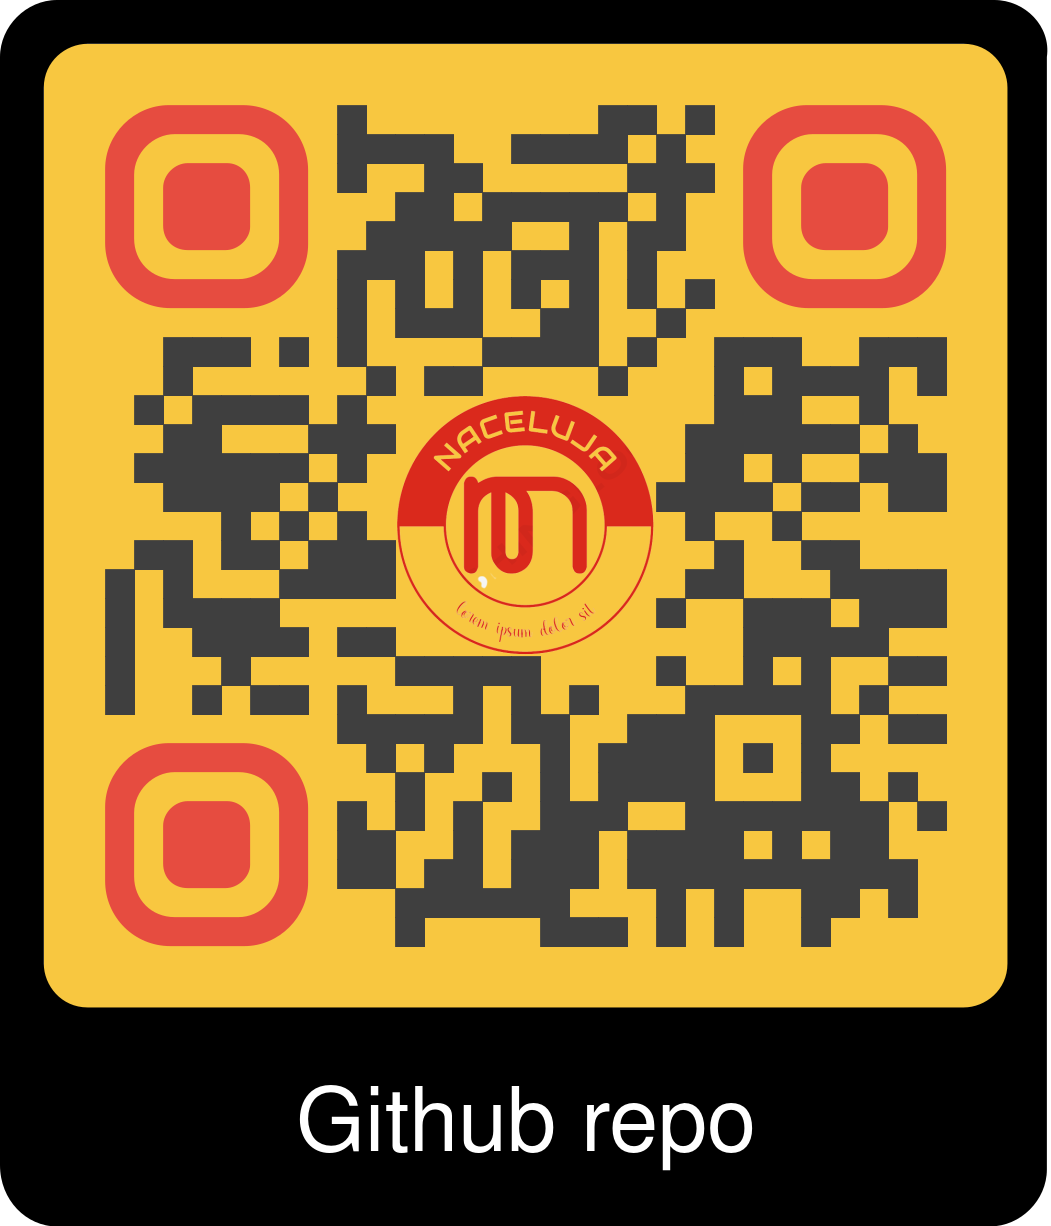
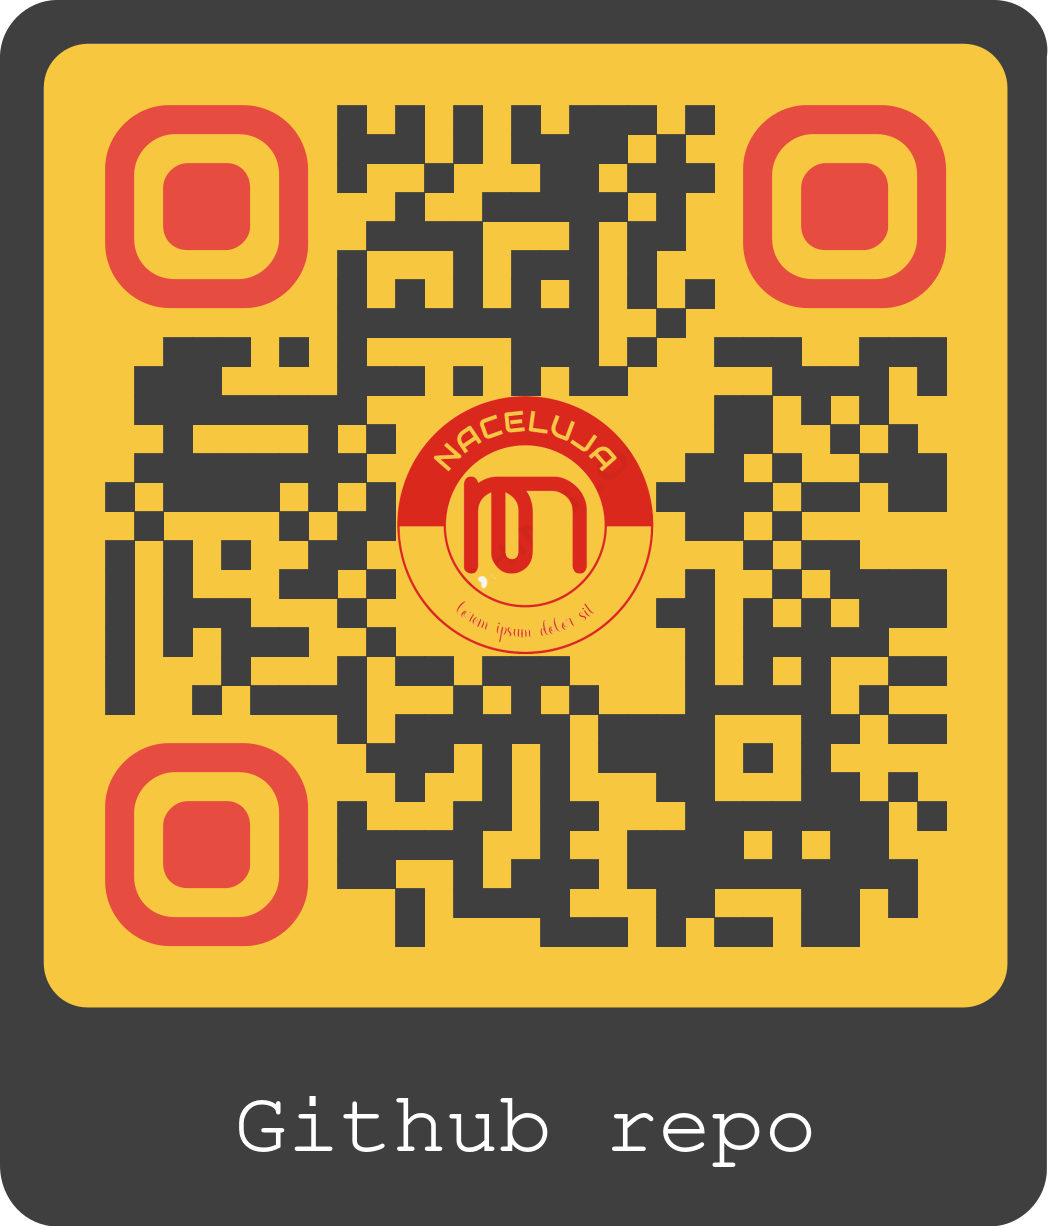
menu dinamico

diff --git a/index.html b/index.html
@@ -44,7 +44,7 @@
             <nav class="menu">
                     <ul class="flex-menu-wrapper">
                     <li class="flex-menu-item"><a class="menu-button-first" href="./index.html">Inicio</a></li>
-                    <li class="flex-menu-item"><a class="menu-button" href="./menu.html">Menú</a></li>
+                    <li class="flex-menu-item"><a class="menu-button" href="./menuDinamico.html">Menú</a></li>
                     <li class="flex-menu-item"><a class="menu-button" href="./sucursales.html">Sucursales</a></li>
                     <li class="flex-menu-item"><a class="menu-button" href="./formRegistro.html">Registrate</a></li>
                     <li class="flex-menu-item"><a class="menu-button" href="./receta.html">Receta del día</a></li>
@@ -116,59 +116,53 @@
         </section> -->
    </main>
    <footer class="footer">
-        <div class="grid-footer">
-            <!-- <div class="footer_columnas"> -->
-                <Section class="footer_columna">
-                    <h5 class="footer-column-titulo">Participantes</h5> 
-                    <!-- <p class="footer-column-content">Lorem ipsum dolor sit amet consectetur adipisicing elit. Totam sequi voluptatum error, quas ex, doloribus quibusdam reiciendis nobis animi quos dignissimos ipsa nihil, maiores eveniet ducimus. Rerum ut repudiandae pariatur?</p>  -->
-                    <ul class="integrantes">
-                        <li>Jazmín</li>
-                        <li>Lucía Cartasso</li>
-                        <li>Fede Campo</li>
-                        <li>Ceci Paolucci</li>
-                    </ul>
-                </section>
-                <Section class="footer_columna">
-                    <h5 class="footer-column-titulo">Descripción</h5> 
-                    <p class="footer-column-content">Lorem ipsum dolor sit amet consectetur adipisicing elit. Totam sequi voluptatum error, quas ex, doloribus quibusdam reiciendis nobis animi quos dignissimos ipsa nihil, maiores eveniet ducimus. Rerum ut repudiandae pariatur?</p> 
-                </section>
-                <Section class="footer_columna">
-                    <h5 class="footer-column-titulo">Documentación</h5> 
-                    <p class="footer-column-content">Lorem ipsum dolor sit amet consectetur adipisicing elit. Totam sequi voluptatum error, quas ex, doloribus quibusdam reiciendis nobis animi quos dignissimos ipsa nihil, maiores eveniet ducimus. Rerum ut repudiandae pariatur?</p> 
-                </section>
-                <Section class="footer_columna">
-                    <h5 class="footer-column-titulo">Sarasa</h5> 
-                    <p class="footer-column-content">Lorem ipsum dolor sit amet consectetur adipisicing elit. Totam sequi voluptatum  error, quas ex, doloribus quibusdam reiciendis nobis animi quos dignissimos ipsa nihil, maiores eveniet ducimus. Rerum ut repudiandae pariatur?</p> 
-                </section>           
-            <!-- </div> -->
-            <section class="social-icons">
-                <!-- <a href="#"></a>
-                <a href="#"></a>
-                <a href="# "></a> -->
-                <!-- <i class="fa-brands fa-facebook"></i>
-                <i class="fa-brands fa-instagram"></i>
-                <i class="fa-brands fa-twitter"></i>
-                <i class="fa-brands fa-whatsapp"></i>                     -->
-                <div class="cv">
-                    <a href="https://ar.linkedin.com/in/lucia-cartasso" target="_blank"><i class="fa-brands fa-linkedin"></i></a>
-                    <p class="nombre-cv">Lucía</p>
-                </div>
-                <div class="cv">
-                    <a href="https://www.linkedin.com/in/gastón-campo-4a8360198/" target="_blank"><i class="fa-brands fa-linkedin"></i></a>
-                    <p class="nombre-cv">Fede</p>
-                </div>
-                <div class="cv">
-                    <a href="https://www.linkedin.com/in/cecilia-paolucci/" target="_blank"><i class="fa-brands fa-linkedin"></i></a>
-                    <p class="nombre-cv">Cecilia</p>
-                </div>
-                <div class="cv">
-                    <a href="https://www.linkedin.com/" target="_blank"><i class="fa-brands fa-linkedin"></i></a>
-                    <p class="nombre-cv">Jazmín</p>
-                </div>
+    <div class="grid-footer">
+        <!-- <div class="footer_columnas"> -->
+            <Section class="footer_columna">
+                <h5 class="footer-column-titulo">Participantes</h5> 
+                <p class="footer-column-content">Lorem ipsum dolor sit amet consectetur adipisicing elit. Totam sequi voluptatum error, quas ex, doloribus quibusdam reiciendis nobis animi quos dignissimos ipsa nihil, maiores eveniet ducimus. Rerum ut repudiandae pariatur?</p> 
             </section>
-            <section id="copyright">
-                <label >Codo a codo - Full stack <sup>©</sup>  Naceluja</label>
-            </section>            
+            <Section class="footer_columna">
+                <h5 class="footer-column-titulo">Descripción</h5> 
+                <p class="footer-column-content">Lorem ipsum dolor sit amet consectetur adipisicing elit. Totam sequi voluptatum error, quas ex, doloribus quibusdam reiciendis nobis animi quos dignissimos ipsa nihil, maiores eveniet ducimus. Rerum ut repudiandae pariatur?</p> 
+            </section>
+            <Section class="footer_columna">
+                <h5 class="footer-column-titulo">Documentación</h5> 
+                <p class="footer-column-content">Lorem ipsum dolor sit amet consectetur adipisicing elit. Totam sequi voluptatum error, quas ex, doloribus quibusdam reiciendis nobis animi quos dignissimos ipsa nihil, maiores eveniet ducimus. Rerum ut repudiandae pariatur?</p> 
+            </section>
+            <Section class="footer_columna">
+                <h5 class="footer-column-titulo">Sarasa</h5> 
+                <p class="footer-column-content">Lorem ipsum dolor sit amet consectetur adipisicing elit. Totam sequi voluptatum  error, quas ex, doloribus quibusdam reiciendis nobis animi quos dignissimos ipsa nihil, maiores eveniet ducimus. Rerum ut repudiandae pariatur?</p> 
+            </section>           
+        <!-- </div> -->
+        <section class="social-icons">
+            <!-- <a href="#"></a>
+            <a href="#"></a>
+            <a href="# "></a> -->
+            <!-- <i class="fa-brands fa-facebook"></i>
+            <i class="fa-brands fa-instagram"></i>
+            <i class="fa-brands fa-twitter"></i>
+            <i class="fa-brands fa-whatsapp"></i>                     -->
+            <div class="cv">
+                <a href="https://www.linkedin.com/" target="_blank"><i class="fa-brands fa-linkedin"></i></a>
+                <p class="nombre-cv">Lucía</p>
+            </div>
+            <div class="cv">
+                <a href="https://www.linkedin.com/" target="_blank"><i class="fa-brands fa-linkedin"></i></a>
+                <p class="nombre-cv">Fede</p>
+            </div>
+            <div class="cv">
+                <a href="https://www.linkedin.com/in/cecilia-paolucci/" target="_blank"><i class="fa-brands fa-linkedin"></i></a>
+                <p class="nombre-cv">Cecilia</p>
+            </div>
+            <div class="cv">
+                <a href="https://www.linkedin.com/" target="_blank"><i class="fa-brands fa-linkedin"></i></a>
+                <p class="nombre-cv">Jazmín</p>
+            </div>
+        </section>
+        <section id="copyright">
+            <label >Codo a codo - Full stack <sup>©</sup>  Naceluja</label>
+        </section>            
    </footer> 
    <script src="./assets/js/menu.js"></script> 
    <script type="module" src="./assets/js/callApi.js"></script> 

diff --git a/menu.html b/menu.html
@@ -210,21 +210,44 @@
            </section>
         </div>
       </section>         
-</main>
-<footer class="footer">
+   </main>
+   <footer class="footer">
     <div class="grid-footer">
         <!-- <div class="footer_columnas"> -->
             <Section class="footer_columna">
-                <h5 class="footer-column-titulo">Participantes</h5> 
-                <p class="footer-column-content">Lorem ipsum dolor sit amet consectetur adipisicing elit. Totam sequi voluptatum error, quas ex, doloribus quibusdam reiciendis nobis animi quos dignissimos ipsa nihil, maiores eveniet ducimus. Rerum ut repudiandae pariatur?</p> 
+                <h5 class="footer-column-titulo">Equipo</h5> 
+                <!-- <p class="footer-column-content">Lorem ipsum dolor sit amet consectetur adipisicing elit. Totam sequi voluptatum error, quas ex, doloribus quibusdam reiciendis nobis animi quos dignissimos ipsa nihil, maiores eveniet ducimus. Rerum ut repudiandae pariatur?</p>  -->
+                <ul class="integrantes">
+                    <li>Jazmín Irurzun</li>
+                    <li>Lucía Cartasso</li>
+                    <li>Fede Campo</li>
+                    <li>Ceci Paolucci</li>
+                </ul>
             </section>
             <Section class="footer_columna">
-                <h5 class="footer-column-titulo">Descripción</h5> 
-                <p class="footer-column-content">Lorem ipsum dolor sit amet consectetur adipisicing elit. Totam sequi voluptatum error, quas ex, doloribus quibusdam reiciendis nobis animi quos dignissimos ipsa nihil, maiores eveniet ducimus. Rerum ut repudiandae pariatur?</p> 
+                <h5 class="footer-column-titulo">Proyecto</h5> 
+                <p class="footer-column-content">Sitio institucional de un restaurant. </p> 
             </section>
             <Section class="footer_columna">
                 <h5 class="footer-column-titulo">Documentación</h5> 
-                <p class="footer-column-content">Lorem ipsum dolor sit amet consectetur adipisicing elit. Totam sequi voluptatum error, quas ex, doloribus quibusdam reiciendis nobis animi quos dignissimos ipsa nihil, maiores eveniet ducimus. Rerum ut repudiandae pariatur?</p> 
+                <!-- <p class="footer-column-content">Lorem ipsum dolor sit amet consectetur adipisicing elit. Totam sequi voluptatum error, quas ex, doloribus quibusdam reiciendis nobis animi quos dignissimos ipsa nihil, maiores eveniet ducimus. Rerum ut repudiandae pariatur?</p>  -->
+                <div class="documentacion">
+                    <!-- <div class="qr-containet"> -->
+                        <a href="https://codo-a-codo-g2.atlassian.net/wiki/spaces/TDW/overview" target="_blank">
+                            <img class="qr" id="qr-doc" src="./assets/qr-codes/doc.png" alt="logo">
+                        </a>
+                    <!-- </div>
+                    <div> -->
+                        <a href="https://github.com/pipuf/cdc-tp1" target="_blank">
+                            <img class="qr" id="qr-doc" src="./assets/qr-codes/repo.png" alt="logo">
+                        </a>
+                    <!-- </div>
+                    <div> -->
+                        <!-- <a href="./index.html" target="_blank">
+                            <img class="qr" id="qr-doc" src="./assets/qr-codes/website.png" alt="logo">
+                        </a> -->
+                    <!-- </div> -->
+                </div>
             </section>
             <Section class="footer_columna">
                 <h5 class="footer-column-titulo">Sarasa</h5> 
@@ -240,11 +263,11 @@
             <i class="fa-brands fa-twitter"></i>
             <i class="fa-brands fa-whatsapp"></i>                     -->
             <div class="cv">
-                <a href="https://www.linkedin.com/" target="_blank"><i class="fa-brands fa-linkedin"></i></a>
+                <a href="https://ar.linkedin.com/in/lucia-cartasso" target="_blank"><i class="fa-brands fa-linkedin"></i></a>
                 <p class="nombre-cv">Lucía</p>
             </div>
             <div class="cv">
-                <a href="https://www.linkedin.com/" target="_blank"><i class="fa-brands fa-linkedin"></i></a>
+                <a href="https://www.linkedin.com/in/gastón-campo-4a8360198/" target="_blank"><i class="fa-brands fa-linkedin"></i></a>
                 <p class="nombre-cv">Fede</p>
             </div>
             <div class="cv">
@@ -259,7 +282,8 @@
         <section id="copyright">
             <label >Codo a codo - Full stack <sup>©</sup>  Naceluja</label>
         </section>            
-</footer> 
+    </footer> 
+
     <script src="./assets/js/menu.js"></script> 
 </body>
 </html>

diff --git a/assets/vue/recetasMenu.js b/assets/vue/recetasMenu.js
@@ -8,53 +8,51 @@
             data: function () {
                 return {
                     /*variables de inicializacion*/
-                    meals: null,
-                    receta: null,
+                    mealList: null,
+                    mealDetails: []
                 };
             },
             mounted: function() {
                 this.handlerRecetasMenu() 
             },
             methods: {
+                getMealDetails: async function (mealID) {
+                    try {
+                        // Trae todas las recetas de la categoría Seafood
+                        let response = await fetch(URL_API+"lookup.php?i="+mealID)
+                        let data = await response.json();
+                        let mealDetalles = data.meals;
+                        let mealsLength = this.mealDetails.push(mealDetalles.strInstructions)                          
+                        return mealsLength
+                    } catch (error) {
+                        console.log({ error });
+                    }
+                }, 
+                               
                 handlerRecetasMenu: async function () {
                     try {
+                        // Trae todas las recetas de la categoría Seafood
                         let response = await fetch(URL_API+"filter.php?c=Seafood");
                         let data = await response.json();
-                        let datos=data.meals[0];
-                        this.receta= "<div>{{meals.strMeal}}</div>"
-                        // this.receta = "<div class='menu-card animation-flip'>"
-                        // this.receta = this.receta + "<div class='menu-card-content animation-flip-content'>"
-                        // this.receta = this.receta + "<div class='menu-card-front'>"
-                        // this.receta = this.receta + "<h4 class='titulo-menu-card'>{{meals.strMeal}}</h4>"
-                        // this.receta = this.receta + "<img img :src=datos.strMealThumb alt='' class='img-menu-card'>"
-                        // this.receta = this.receta + "</div>"
-                        // this.receta = this.receta + "<div class='menu-card-info animation-flip-info'>"
-                        // this.receta = this.receta + "h4 class='titulo-menu-card'>{{meals.strMeal}}</h4>"
-                        // this.receta = this.receta + "<p class='menu-card-info-text'>Lorem ipsum dolor sit amet consectetur adipisicing elit. Voluptatem possimus corrupti voluptates, nobis suscipit ut modi hic vel totam repudiandae!</p>"
-                        // this.receta = this.receta + "</div>"
-                        // this.receta = this.receta + "</div>"
-                        // this.receta = this.receta + "</div>"
-                       
-                        
-                        
-                        
-                        
-                        // console.log(this.nombre)
-                        // this.img = data.meals[0].strMealThumb;
-                        // for (var i=1; i<21; i++){ 
-                        //     if (data.meals[0]["strIngredient"+i] != null)
-                        //         if (data.meals[0]["strIngredient"+i].trim()!="")
-                        //             this.ingredientes[i-1]=data.meals[0]["strIngredient"+i].trim() +" "+data.meals[0]["strMeasure"+i].trim()
-                        //         else
-                        //             this.ingredientes[i-1]=""
-                        // }
-                        // console.log(this.ingredientes)
-                        // this.preparacion=data.meals[0].strInstructions
+                        this.mealList = data.meals;
+
+                        let mealsLength = 0
+                        console.log(this.mealList)
+                        this.mealList.forEach(meal => {
+                            let mealsLength=this.getMealDetails(meal.idMeal)  
+                            console.log(mealsLength)                       
+                        });
+                        console.log(mealsLength)
+                        console.log(this.mealDetails)
 
                     } catch (error) {
                         console.log({ error });
                     }
                 },
+
+                selectHandler: function (index, meal) {
+                    this.activeItem = index;
+                },                
             },
         };
 

diff --git a/menuDinamico.html b/menuDinamico.html
@@ -20,7 +20,6 @@
     <link href="./assets/css/footer.css" rel="stylesheet">
     <link href="./assets/css/main.css" rel="stylesheet">
     <link href="./assets/css/menu.css" rel="stylesheet">
- 
     <!-- ------------------ -->
 
 
@@ -42,7 +41,7 @@
             <nav class="menu">
                  <ul class="flex-menu-wrapper">
                     <li class="flex-menu-item"><a class="menu-button" href="./index.html">Inicio</a></li>
-                    <li class="flex-menu-item"><a class="menu-button-first" href="./menu.html">Menú</a></li>
+                    <li class="flex-menu-item"><a class="menu-button-first" href="./menuDinamico.html">Menú</a></li>
                     <li class="flex-menu-item"><a class="menu-button" href="./sucursales.html">Sucursales</a></li>
                     <li class="flex-menu-item"><a class="menu-button" href="./formRegistro.html">Registrate</a></li>
                     <li class="flex-menu-item"><a class="menu-button" href="./receta.html">Receta del día</a></li>
@@ -59,9 +58,22 @@
                  <p>Lorem ipsum dolor sit amet consectetur adipisicing elit. Laboriosam incidunt magnam porro veniam provident illo eaque nemo dolores aspernatur natus, illum consequatur modi esse labore nam similique aperiam veritatis. Voluptatibus aspernatur quibusdam optio fuga a, soluta, veritatis, nam labore ducimus quo iusto. Hic, blanditiis tenetur? Quod commodi delectus aliquam ut!</p>
             </section>
             <section id="appMenu" class="grid-menu">
-                <!-- <div v-for="n in 12"> </div> -->
-                <div >hol</div>
-           </section>
+                <!-- <div v-html="receta"></div> -->
+                <div
+                    v-for="(meal,index) in mealList" 
+                    class="menu-card animation-flip">
+                    <div class="menu-card-content animation-flip-content">
+                        <div class="menu-card-front">
+                            <h5 class="titulo-menu-card">{{meal.strMeal}}</h5>
+                            <img :src="meal.strMealThumb" alt="" class="img-menu-card">
+                        </div>
+                        <div class="menu-card-info animation-flip-info">
+                            <h5 class="titulo-menu-card">{{meal.strMeal}}</h5>
+                            <p class="menu-card-info-text">{{mealDetails[index]}}</p>
+                        </div>
+                    </div>
+                </div>
+            </section>
         </div>
       </section>         
 </main>
@@ -114,7 +126,7 @@
             <label >Codo a codo - Full stack <sup>©</sup>  Naceluja</label>
         </section>            
 </footer> 
-   <script type="module" src="./assets/vue/recetaMenu.js"></script> 
+   <script type="module" src="./assets/vue/recetasMenu.js"></script> 
    <script src="./assets/js/menu.js"></script> 
 </body>
 </html>

diff --git a/receta.html b/receta.html
@@ -42,7 +42,7 @@
                     <!-- <input class="mobile-menu" type="checkbox" src="assets/img/icons8-menú-30.png"> -->
                     <ul class="flex-menu-wrapper">
                         <li class="flex-menu-item"><a class="menu-button" href="./index.html">Inicio</a></li>
-                        <li class="flex-menu-item"><a class="menu-button" href="./menu.html">Menú</a></li>
+                        <li class="flex-menu-item"><a class="menu-button" href="./menuDinamico.html">Menú</a></li>
                         <li class="flex-menu-item"><a class="menu-button" href="./sucursales.html">Sucursales</a></li>
                         <li class="flex-menu-item"><a class="menu-button" href="./formRegistro.html">Registrate</a></li>
                         <li class="flex-menu-item"><a class="menu-button-first" href="./receta.html">Receta del día</a></li>

diff --git a/sucursales.html b/sucursales.html
@@ -42,7 +42,7 @@
                     <!-- <input class="mobile-menu" type="checkbox" src="assets/img/icons8-menú-30.png"> -->
                     <ul class="flex-menu-wrapper">
                         <li class="flex-menu-item"><a class="menu-button" href="./index.html">Inicio</a></li>
-                        <li class="flex-menu-item"><a class="menu-button" href="./menu.html">Menú</a></li>
+                        <li class="flex-menu-item"><a class="menu-button" href="./menuDinamico.html">Menú</a></li>
                         <li class="flex-menu-item"><a class="menu-button-first" href="./sucursales.html">Sucursales</a></li>
                         <li class="flex-menu-item"><a class="menu-button" href="./formRegistro.html">Registrate</a></li>
                         <li class="flex-menu-item"><a class="menu-button" href="./receta.html">Receta del día</a></li>

diff --git a/formRegistro.html b/formRegistro.html
@@ -50,7 +50,7 @@
             <nav class="menu">
                 <ul class="flex-menu-wrapper">
                     <li class="flex-menu-item"><a class="menu-button text-decoration-none" href="./index.html">Inicio</a></li>
-                    <li class="flex-menu-item"><a class="menu-button" href="./menu.html">Menú</a></li>
+                    <li class="flex-menu-item"><a class="menu-button" href="./menuDinamico.html">Menú</a></li>
                     <li class="flex-menu-item"><a class="menu-button" href="./sucursales.html">Sucursales</a></li>
                     <li class="flex-menu-item"><a class="menu-button-first" href="./formRegistro.html">Registrate</a></li>
                     <li class="flex-menu-item"><a class="menu-button" href="./receta.html">Receta del día</a></li>

diff --git a/assets/css/main.css b/assets/css/main.css
@@ -8,18 +8,6 @@ body{
     background-color: var(--main-background-color);
 }
 
-/* .grid{
-    display: grid;
-    grid-template-columns: repeat(var(--main-column-count), 1fr);
-    width: 100%;
-    max-width: 100vw;
-    height: 100%;
-    margin: auto;
-    gap: 10px;
-    overflow: hidden;
-    align-items: center;
-} */
-
 main{ 
     min-height: 70vh;
 }
@@ -32,7 +20,6 @@ main{
     background-repeat: no-repeat;
     background-position-x: center;
 }
-
 
 .services{
     /* height:; */

diff --git a/assets/css/footer.css b/assets/css/footer.css
@@ -51,6 +51,15 @@
     text-align: center;
 }
 
+.documentacion{
+    display:flex;
+    justify-content: center;
+}
+
+.qr{
+    height:150px;
+}
+
 .social-icons{
     grid-column: 1/-1;
     display: flex;
